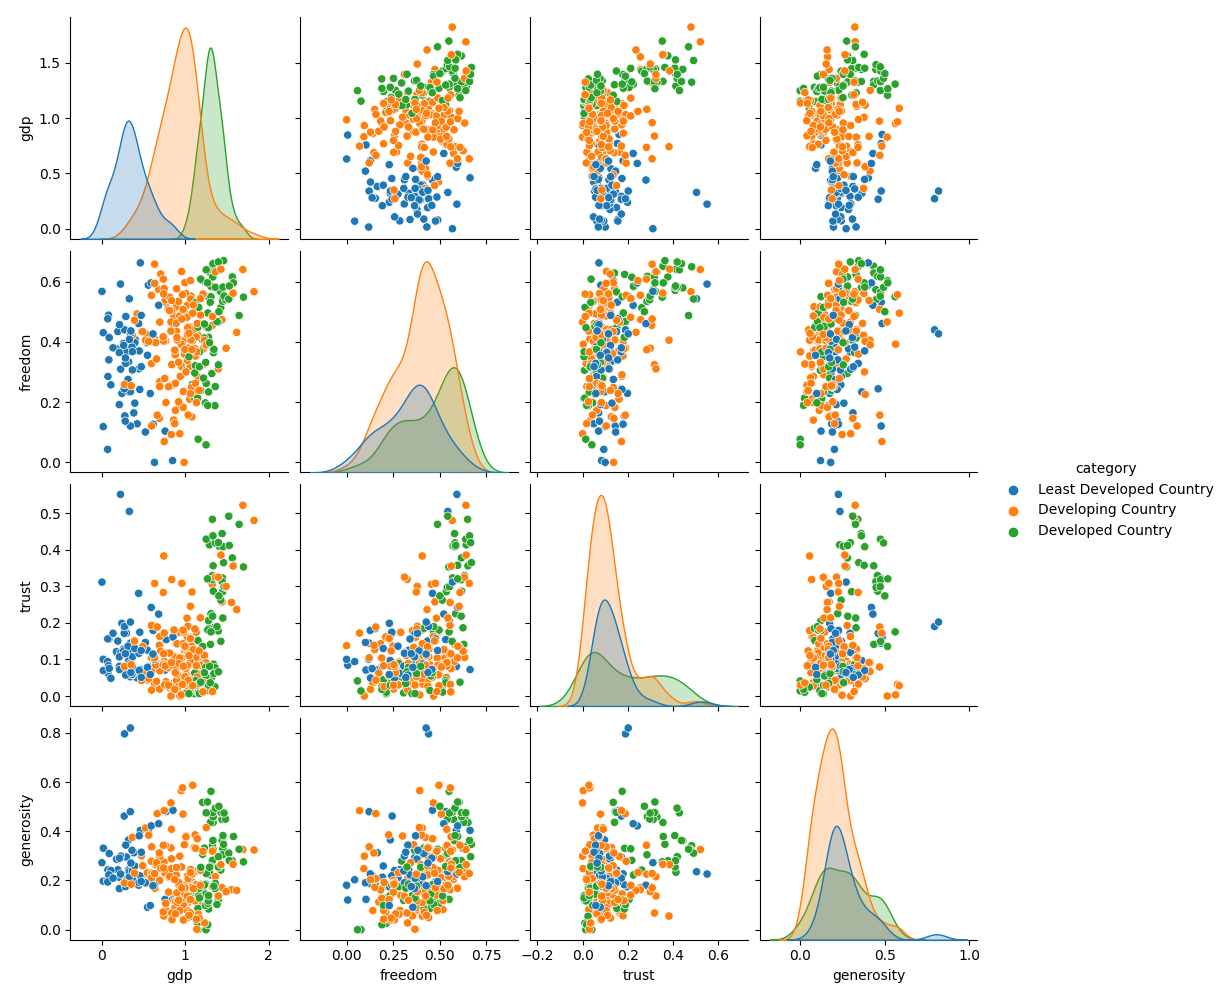
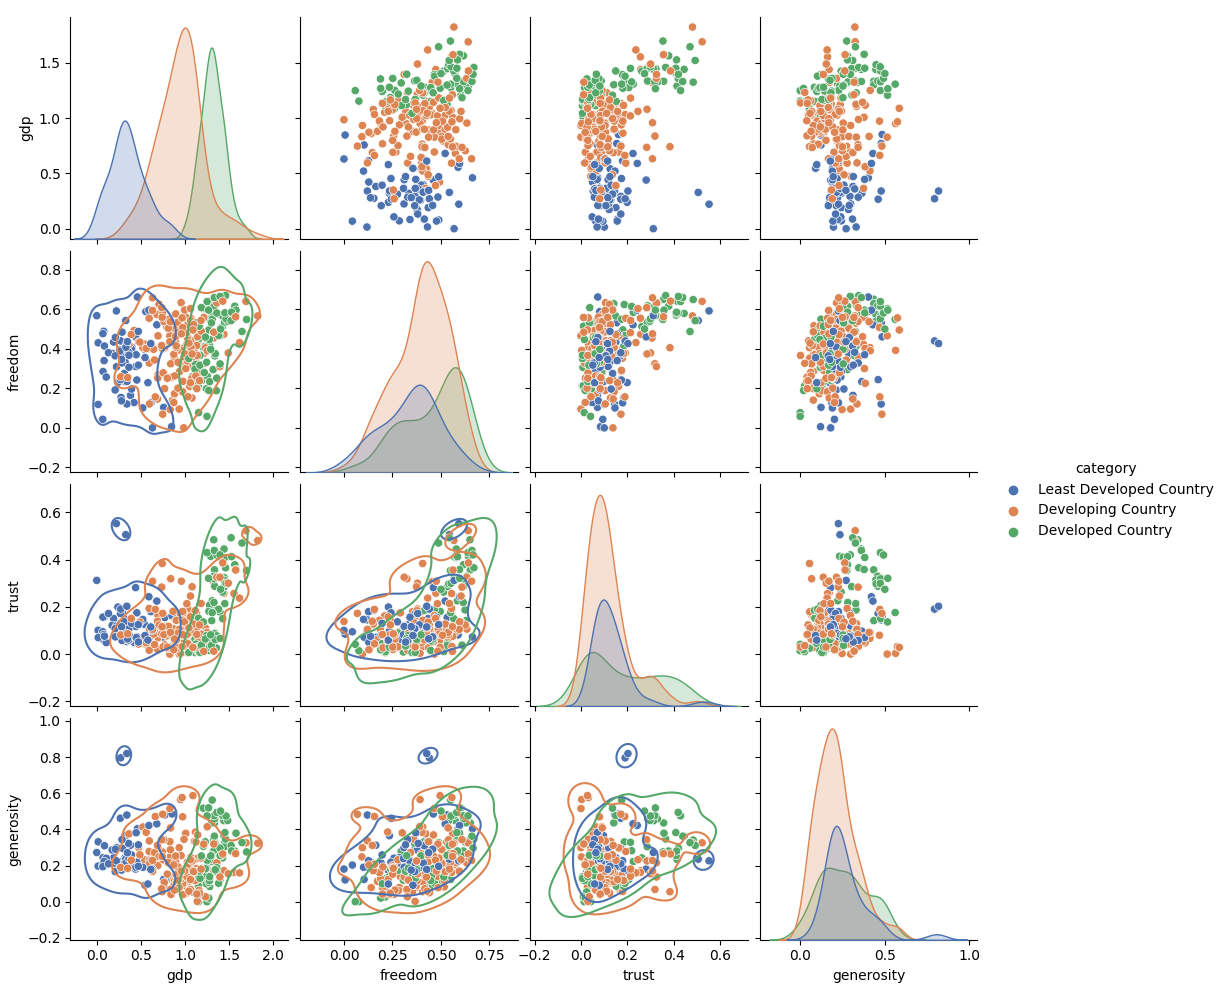
modified scatter grafics

diff --git a/curshach/classification_algorithm.py b/curshach/classification_algorithm.py
@@ -1,6 +1,7 @@
 import itertools
 import numpy as np
 import pandas as pd
+import penguins as penguins
 import seaborn
 from matplotlib import pyplot as plt
 from sklearn.ensemble import RandomForestClassifier, GradientBoostingClassifier, BaggingClassifier, AdaBoostClassifier
@@ -152,7 +153,10 @@ def classification_function():
     # baggingClassification(X_train, Y_train, X_test, Y_test)
     # adaBoosting(X_train, Y_train, X_test, Y_test)
     getCountryClass(randomForest(X_train, Y_train, X_test, Y_test))
-    seaborn.pairplot(df, hue='category', height=2.5, vars=['gdp', 'freedom', 'trust', 'generosity'])
+
+    # seaborn.pairplot(df, hue='category', height=2.5, vars=['gdp', 'freedom', 'trust', 'generosity'])
+    seaborn.pairplot(df, diag_kind="kde", hue='category', height=2.5, vars=['gdp', 'freedom', 'trust', 'generosity']).map_lower(seaborn.kdeplot, levels=1, color=".2")
+
     plt.savefig('../data/images/test.png')
     plt.show()
     pass
